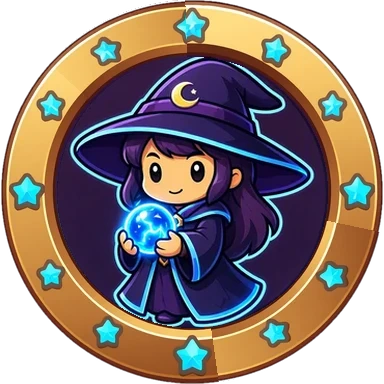
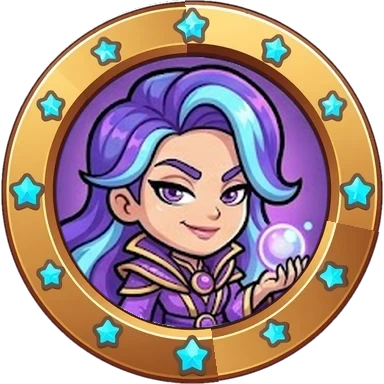
Oleadas con protagonista sorteado en ruleta, más vida a los monstruos y Aurora con su set nuevo

diff --git a/js/ui.js b/js/ui.js
@@ -2126,13 +2126,15 @@ function waveInfoHtml(b) {
     (!b.wave ? 'Coloca tus tropas' : left ? (left === 1 ? 'Queda 1' : 'Quedan ' + left) : '¡Superada!') + '</small></span>';
   var nx = b.next;
   if (!nx) return now + '<span class="wi-next"><b class="wi-last">👑 ¡Última oleada!</b></span>';
+  // hasta que el sorteo (showWaveDraw) no termina, la siguiente es una incógnita
+  if (!nx.shown) return now + '<span class="wi-next"><small>' + (b.wave ? 'Siguiente' : 'Llega') + '</small><i class="wi-chip wi-unknown">' + (nx.drawn ? '🎲' : '❔') + '</i></span>';
   var groups = [], by = {};
   nx.queue.forEach(function (q) {
     var k = (q.boss ? 'B' : '') + q.kind;
     if (!by[k]) { by[k] = { kind: q.kind, boss: !!q.boss, n: 0 }; groups.push(by[k]); }
     by[k].n++;
   });
-  groups.sort(function (p, q) { return (p.boss - q.boss) || (q.n - p.n); });
+  groups.sort(function (p, q) { return (q.boss - p.boss) || ((q.kind === nx.lead) - (p.kind === nx.lead)) || (q.n - p.n); });
   var chips = groups.slice(0, 5).map(function (g) {
     var name = g.boss ? BOSSES[g.kind].name : ENEMIES[g.kind].name;
     return '<i class="wi-chip' + (g.boss ? ' boss' : '') + '" title="' + esc(name) + '"><img src="' + enemyIcon(g.kind, g.boss) + '" alt="' + esc(name) + '">' + (g.boss ? '👑' : '×' + g.n) + '</i>';
@@ -2157,6 +2159,57 @@ function refreshUnitInfo() {
   box.innerHTML = icons('<img src="' + unitIcon(u.id, u.rank, 72) + '" alt=""><div><b>' + esc(d.name) + ' · Rango ' + u.rank + '</b><small>' + esc(d.role) + ' · ' + bits.join(' · ') + '</small><small class="hint">Toca otra igual para fusionar o una casilla vacía para moverla</small></div>');
   box.hidden = false;
 }
+/* ---------- sorteo de la siguiente oleada ----------
+   Una ruleta pequeña sobre tu tablero gira entre los monstruos posibles y
+   se para en el protagonista de la siguiente oleada (plan.lead). La partida
+   sigue mientras tanto; al pararse, la franja de arriba lo enseña. */
+var WD_W = 64; // ancho de cada casilla de la ruleta pequeña, con su hueco (.wd-card en style.css)
+function showWaveDraw(plan) {
+  var b = battle, old = $('waveDraw');
+  if (old) old.remove();
+  var items = leadPool(plan.wave), REPS = 7;
+  var win = items.indexOf(plan.lead);
+  var cards = '';
+  for (var k = 0; k < items.length * REPS; k++) {
+    var kind = items[k % items.length];
+    cards += '<span class="wd-card"><img src="' + enemyIcon(kind, false) + '" alt=""></span>';
+  }
+  var boss = plan.queue.filter(function (q) { return q.boss; })[0];
+  var el = document.createElement('div');
+  el.id = 'waveDraw'; el.className = 'wave-draw';
+  el.style.top = Math.round((layout.main ? layout.main.oy : 60) + 6) + 'px';
+  el.innerHTML = '<small>Oleada ' + plan.wave + '</small><div class="wd-track"><div class="wd-strip">' + cards + '</div><i class="wd-mark"></i></div><b class="wd-name">¿Quién vendrá?</b>';
+  $('arena').appendChild(el);
+  var track = el.querySelector('.wd-track'), strip = el.querySelector('.wd-strip');
+  var from = Math.floor(Math.random() * items.length), to = items.length * (REPS - 2) + win, at = -1;
+  function alive() { return battle === b && !b.ended && el.isConnected; }
+  function place(k) {
+    strip.style.transform = 'translateX(' + (track.clientWidth / 2 - (k * WD_W + WD_W / 2)) + 'px)';
+    var cur = Math.round(k);
+    if (cur !== at) { at = cur; tone(760 + (cur % 3) * 60, 0.025, 'square', 0.03); }
+  }
+  place(from);
+  var t0 = performance.now(), dur = DRAW_SPIN * 1000;
+  function step(now) {
+    if (!alive()) return;
+    var t = Math.min(1, (now - t0) / dur), e = 1 - Math.pow(1 - t, 4);
+    place(from + (to - from) * e);
+    if (t < 1) { requestAnimationFrame(step); return; }
+    strip.children[to].classList.add('win');
+    el.classList.add('done');
+    el.querySelector('.wd-name').innerHTML = esc(ENEMIES[plan.lead].name) + (boss ? '<em>👑 y ' + esc(BOSSES[boss.kind].name) + '</em>' : '') + (plan.event ? '<em>' + esc(plan.event.name) + '</em>' : '');
+    plan.shown = true;
+    updateHud(true);
+    sfx('power');
+    setTimeout(function () {
+      if (!el.isConnected) return;
+      el.classList.add('out');
+      setTimeout(function () { el.remove(); }, 300);
+    }, DRAW_HOLD * 1000);
+  }
+  requestAnimationFrame(step);
+}
+
 /* ---------- 1 contra 1: ruleta del modificador y del jefe final ----------
    Dos franjas cruzan el mapa de lado a lado: primero gira la del modificador
    y se para en el que ha tocado (battle.mod), luego la del jefe (battle.boss).

diff --git a/js/battle.js b/js/battle.js
@@ -296,7 +296,7 @@ var ROGUE_LATE = 1.11;
 var COOP_HP = 2.4;
 function hpScale() {
   var b = battle, w = Math.max(1, b.wave);
-  var s = 42 * Math.pow(1.17, w - 1);
+  var s = 52 * Math.pow(1.18, w - 1);
   if (b.stage) {
     // la dureza de la fase llega poco a poco: la primera oleada, al 55 %
     var ramp = b.maxWaves > 1 ? 0.55 + 0.45 * (w - 1) / (b.maxWaves - 1) : 1;
@@ -315,7 +315,22 @@ function isBossWave(w) {
   if (battle.mode === 'campaign') return w === battle.maxWaves;
   return w % (battle.mod && battle.mod.id === 'jefes' ? 3 : 5) === 0;
 }
-// Se decide una oleada antes de que llegue, para poder anunciar la siguiente.
+// monstruos que pueden protagonizar una oleada, según por cuál vas
+function leadPool(w) {
+  var p = ['blob', 'imp'];
+  if (w >= 3) p.push('brute', 'orco');
+  if (w >= 4) p.push('ghost', 'escudado');
+  if (w >= 5) p.push('escarcha');
+  if (w >= 6) p.push('rocoso');
+  return p;
+}
+// parte de la oleada que es del protagonista; el resto, monstruos variados
+var LEAD_SHARE = 0.7;
+// segundos que gira el sorteo de la siguiente oleada (showWaveDraw) y los que se queda a la vista
+var DRAW_SPIN = 1.9, DRAW_HOLD = 1.6;
+/* Se decide una oleada antes de que llegue, para poder anunciar la siguiente.
+   Cada oleada tiene un monstruo protagonista sorteado (nunca el mismo de la
+   anterior); cuántos salen depende de su vida, así la dureza no cambia. */
 function planWave(w) {
   var b = battle;
   var caos = b.mod && b.mod.id === 'caos';
@@ -331,15 +346,24 @@ function planWave(w) {
   if (w >= 5) mix.push('escarcha', 'orco');
   if (w >= 6) mix.push('rocoso');
   if (w >= 8) mix.push('brute', 'ghost', 'rocoso', 'escarcha');
+  var pool = leadPool(w), prev = b.next && b.next.wave === w - 1 ? b.next.lead : null;
+  if (prev && pool.length > 1) pool = pool.filter(function (k) { return k !== prev; });
+  var lead = bpick(pool);
+  var avgHp = mix.reduce(function (s, k) { return s + ENEMIES[k].hp; }, 0) / mix.length;
+  var nFill = Math.round(count * (1 - LEAD_SHARE));
+  var nLead = Math.max(3, Math.min(Math.round(count * 1.6), Math.round(count * LEAD_SHARE * avgHp / ENEMIES[lead].hp)));
   var queue = [];
-  for (var i = 0; i < count; i++) queue.push({ kind: bpick(mix) });
+  for (var i = 0; i < nFill; i++) queue.push({ kind: bpick(mix) });
+  for (i = 0; i < nLead; i++) queue.push({ kind: lead });
+  for (i = queue.length - 1; i > 0; i--) { var j = Math.floor(brand() * (i + 1)), sw = queue[i]; queue[i] = queue[j]; queue[j] = sw; }
+  count = queue.length;
   if (isBossWave(w)) {
     var rot = BOSS_ORDER[(w / 5 - 1) % BOSS_ORDER.length];
     // roguelike: rotan los jefes y el de la ruleta llega en la última oleada
     var boss = b.stage ? b.stage.boss : b.mode === 'rogue' ? (w === b.maxWaves ? b.boss : rot) : b.boss || rot;
     queue.push({ kind: boss, boss: true, final: b.mode === 'rogue' && w === b.maxWaves });
   }
-  return { wave: w, event: event, queue: queue, count: count };
+  return { wave: w, event: event, queue: queue, count: count, lead: lead, drawn: false };
 }
 function startWave() {
   var b = battle;
@@ -407,6 +431,9 @@ function updateBattle(dt) {
   if (b.mode === 'rogue' && b.time >= b.nextPick) { b.nextPick += ROGUE_PICK_EVERY; offerRogue(); if (b.picking) return; }
   if (b.moveCd > 0) b.moveCd = Math.max(0, b.moveCd - dt / (b.speed || 1));
   if (b.tutorial) updateCoach(dt);
+  // sorteo de la siguiente oleada: al salir el último monstruo de la actual
+  // (o antes de la primera), sin parar la partida
+  if (b.next && !b.next.drawn && (!b.wave || !b.queue.length)) { b.next.drawn = true; showWaveDraw(b.next); }
   if (b.gap > 0) {
     // en el tutorial, la primera oleada espera a que invoques dos tropas
     if (!(b.tutorial && b.wave === 0 && b.player.summons < 2)) b.gap -= dt;
@@ -1106,7 +1133,8 @@ function drawBoard(b, L, now, isMain) {
     if (f.type === 'bolt') {
       // rayo ilustrado estirado entre los dos puntos (se voltea al azar para
       // que chisporrotee) y un trazo quebrado encima
-      var cad = art('fx/rayo-cadena'), bim = cad || art('fx/rayo-bola');
+      // (el propio de la tropa, si tiene: boltPic)
+      var cad = (f.pic && art(f.pic)) || art('fx/rayo-cadena'), bim = cad || art('fx/rayo-bola');
       ctx.globalAlpha = f.life / f.max;
       if (bim) {
         var bl = Math.hypot(f.x2 - f.x1, f.y2 - f.y1), bh = cad ? Math.min(0.55, bl * bim.naturalHeight / bim.naturalWidth * 1.4) : 0.42;

diff --git a/style.css b/style.css
@@ -1742,6 +1742,30 @@ x-ico.off { filter: grayscale(1) brightness(0.45); opacity: 0.75; }
 .rl-desc { min-height: 1.3em; margin: 6px 16px 0; text-align: center; font-size: 0.82rem; color: #fff; text-shadow: 0 1px 0 var(--ink); }
 .rl-skip { text-align: center; color: var(--muted); font-size: 0.8rem; }
 
+/* sorteo de la siguiente oleada (showWaveDraw): no tapa los toques */
+.wave-draw {
+  position: absolute; left: 50%; transform: translateX(-50%); z-index: 4; width: 212px; pointer-events: none;
+  display: flex; flex-direction: column; align-items: center; gap: 3px; padding: 5px 0 6px;
+  background: rgba(12,16,48,0.86); border: 2px solid var(--ui-gold); border-radius: 14px; box-shadow: 0 0 0 2px var(--ink), 0 4px 0 rgba(0,0,0,0.4);
+  animation: rlIn 0.25s ease-out;
+}
+.wave-draw.out { opacity: 0; transition: opacity 0.3s; }
+.wave-draw > small { font-size: 0.68rem; color: var(--gold); text-shadow: 0 1px 0 var(--ink); }
+.wd-track { position: relative; width: 100%; height: 62px; overflow: hidden; background: linear-gradient(180deg, #2a1a0c, #4a2e14 50%, #2a1a0c); }
+.wd-track::before, .wd-track::after { content: ''; position: absolute; top: 0; bottom: 0; width: 22%; z-index: 2; }
+.wd-track::before { left: 0; background: linear-gradient(90deg, rgba(20,12,4,0.95), transparent); }
+.wd-track::after { right: 0; background: linear-gradient(-90deg, rgba(20,12,4,0.95), transparent); }
+.wd-strip { display: flex; height: 100%; align-items: center; will-change: transform; }
+/* WD_W de js/ui.js = ancho + márgenes (56 + 4 + 4) */
+.wd-card { flex: none; width: 56px; height: 54px; margin: 0 4px; border-radius: 10px; display: grid; place-items: center; background: linear-gradient(180deg, #2f4192, #1a245e); border: 2px solid var(--ink); }
+.wd-card img { width: 44px; height: 44px; object-fit: contain; }
+.wd-card.win { border-color: var(--gold); box-shadow: 0 0 12px 3px rgba(255,209,102,0.85); animation: rlWin 0.45s ease-out forwards; }
+.wd-mark { position: absolute; left: 50%; top: 0; bottom: 0; width: 64px; transform: translateX(-50%); z-index: 3; border-left: 2px solid var(--gold); border-right: 2px solid var(--gold); }
+.wd-name { font-family: 'Lilita One'; font-weight: 400; font-size: 0.95rem; color: #fff; text-shadow: 0 2px 0 var(--ink); text-align: center; line-height: 1.15; }
+.wd-name em { display: block; font-style: normal; font-family: system-ui, sans-serif; font-size: 0.7rem; color: var(--gold); }
+.wave-draw:not(.done) .wd-name { color: var(--muted); }
+.wi-unknown { width: 30px; height: 30px; justify-content: center; font-size: 1.1rem; background: rgba(255,255,255,0.08); border-radius: 8px; }
+
 .skill-pick { position: absolute; inset: 0; z-index: 8; display: grid; place-items: center; padding: 16px; background: rgba(8,10,30,0.7); animation: rlIn 0.25s ease-out; }
 .skill-pick.out { opacity: 0; transition: opacity 0.35s; }
 .sp-card { width: 100%; max-width: 420px; background: var(--ui-panel-bg); border: 3px solid var(--cc, var(--gold)); border-radius: 18px; padding: 12px; box-shadow: 0 0 0 3px var(--ink), 0 0 30px rgba(0,0,0,0.5); }

diff --git a/js/art.js b/js/art.js
@@ -58,6 +58,8 @@ var ASSET_VER = { 'fx/fusion': 2, 'fx/fusion-eco': 2, 'fx/invocar': 2, 'fx/estad
 });
 ['cronos', 'eco', 'garra', 'halcon', 'kaia', 'lyra', 'oria', 'rocco', 'seren', 'sombra', 'titan', 'fenix'].forEach(function (id) { ASSET_VER['units/' + id] = 3; });
 ASSET_VER['units/garra'] = 4;
+// Aurora, set 2 (assets/personajes/aurora-set-2.jpg)
+ASSET_VER['units/aurora'] = 3; ASSET_VER['units/board/aurora-idle'] = 7; ASSET_VER['units/board/aurora-attack'] = 7;
 // efectos de los comandantes redibujados (assets/comandantes/*-set.jpg)
 ['ventisca', 'marea', 'meteoro', 'crater', 'nyx-maldicion', 'nyx-chispas', 'sol-escudo', 'morgana-ensamblaje', 'torvald-forja', 'torvald-carga'].forEach(function (k) { ASSET_VER['fx/' + k] = 3; });
 ['crater', 'meteoro', 'marea'].forEach(function (k) { ASSET_VER['fx/' + k] = 4; }); // Brann y Merlo, set 2
@@ -215,7 +217,7 @@ var FX_OF = { fire: 'fuego', ice: 'hielo', poison: 'veneno', bomb: 'canon', arro
     IMG['fx/' + el + '-' + part] = im;
   });
 });
-['ventisca', 'marea', 'meteoro', 'crater', 'nyx-maldicion', 'nyx-chispas', 'sol-escudo', 'morgana-ensamblaje', 'torvald-forja', 'torvald-carga', 'boreas-ventisca', 'midas-critico', 'eco-resuena', 'fusion-eco', 'oria-interes', 'muerte-puf', 'muerte-estallido', 'muerte-veneno', 'muerte-fuego', 'muerte-humo', 'garra-espiritu', 'invocar', 'invocar-aro', 'acelerar', 'rayo-cadena', 'congelado-1', 'congelado-2', 'ganancia-mana', 'pyra-estallido', 'icono-armadura', 'icono-barrera', 'fusion', 'fusion-doblon', 'mover', 'ralentizado-1', 'ralentizado-2', 'ralentizado-3', 'ralentizado-4', 'ralentizado-5'].concat(Object.keys(ELEMENTS).map(function (el) { return 'conector-' + el; })).forEach(function (k) {
+['ventisca', 'marea', 'meteoro', 'crater', 'nyx-maldicion', 'nyx-chispas', 'sol-escudo', 'morgana-ensamblaje', 'torvald-forja', 'torvald-carga', 'boreas-ventisca', 'midas-critico', 'eco-resuena', 'fusion-eco', 'oria-interes', 'muerte-puf', 'muerte-estallido', 'muerte-veneno', 'muerte-fuego', 'muerte-humo', 'garra-espiritu', 'invocar', 'invocar-aro', 'acelerar', 'rayo-cadena', 'congelado-1', 'congelado-2', 'ganancia-mana', 'pyra-estallido', 'icono-armadura', 'icono-barrera', 'fusion', 'fusion-doblon', 'mover', 'ralentizado-1', 'ralentizado-2', 'ralentizado-3', 'ralentizado-4', 'ralentizado-5', 'aurora-rayo', 'aurora-aturdido'].concat(Object.keys(ELEMENTS).map(function (el) { return 'conector-' + el; })).forEach(function (k) {
   var im = new Image();
   im.onload = function () { im.ready = true; };
   im.src = 'assets/fx/' + k + '.webp' + assetV('fx/' + k);

diff --git a/sw.js b/sw.js
@@ -6,7 +6,7 @@
 // archivo por su cuenta: si uno falla, los demás se quedan. El arte (EXTRA)
 // se baja después, de pocos en pocos y sin bloquear, y lo que se vaya
 // usando se guarda igualmente al pedirlo.
-var CACHE = 'reino-de-torres-v103';
+var CACHE = 'reino-de-torres-v104';
 // tropas con el dibujo nuevo (assets/personajes)
 var NEW_ART = ['cronos', 'eco', 'garra', 'halcon', 'kaia', 'lyra', 'oria', 'rocco', 'seren', 'sombra', 'titan', 'fenix'];
 var CORE = ['./', 'index.html', 'style.css', 'favicon.svg', 'manifest.json', 'js/data.js', 'js/version.js', 'js/art.js', 'js/meta.js', 'js/board.js', 'js/battle.js', 'js/music.js', 'js/ui.js',
@@ -19,6 +19,8 @@ var EXTRA = ['assets/icons/gota.webp?v=2', 'assets/ui/boton.webp', 'assets/ui/bo
   .concat(['marea', 'frida', 'pyra', 'valka'].reduce(function (a, id) { return a.concat(['assets/units/' + id + '.webp?v=2', 'assets/units/board/' + id + '-idle.webp?v=3', 'assets/units/board/' + id + '-attack.webp']); }, []))
   .concat(['marea', 'frida', 'pyra', 'valka', 'fenix'].map(function (id) { return 'assets/fx/' + id + '-tiro.webp'; }))
   .concat(['invocar-aro', 'acelerar', 'rayo-cadena', 'congelado-1', 'congelado-2', 'ganancia-mana', 'pyra-estallido', 'icono-armadura', 'icono-barrera', 'estado-enredado', 'estado-ascuas'].map(function (k) { return 'assets/fx/' + k + '.webp'; }));
+// 1.32.0: Aurora, set 2
+EXTRA = EXTRA.concat(['assets/units/aurora.webp?v=3', 'assets/units/board/aurora-idle.webp?v=7', 'assets/units/board/aurora-attack.webp?v=7', 'assets/fx/aurora-rayo.webp', 'assets/fx/aurora-aturdido.webp']);
 function cacheEach(c, list) { return Promise.all(list.map(function (u) { return c.add(u).catch(function () {}); })); }
 // el arte, de 6 en 6 (lo que ya esté guardado no se vuelve a bajar)
 function warmExtra() {

diff --git a/index.html b/index.html
@@ -15,7 +15,7 @@
 <link rel="preconnect" href="https://fonts.googleapis.com">
 <link rel="preconnect" href="https://fonts.gstatic.com" crossorigin>
 <link href="https://fonts.googleapis.com/css2?family=Fredoka:wght@500;600;700&family=Lilita+One&family=Nunito:wght@700;800;900&family=Titan+One&display=swap" rel="stylesheet">
-<link rel="stylesheet" href="style.css?v=75">
+<link rel="stylesheet" href="style.css?v=76">
 </head>
 <body>
   <div id="menu" class="menu"></div>
@@ -57,13 +57,13 @@
   <div id="overlay" class="overlay" hidden></div>
   <div id="toast" class="toast"></div>
 
-  <script src="js/data.js?v=61"></script>
-  <script src="js/version.js?v=65"></script>
-  <script src="js/art.js?v=55"></script>
+  <script src="js/data.js?v=62"></script>
+  <script src="js/version.js?v=66"></script>
+  <script src="js/art.js?v=56"></script>
   <script src="js/meta.js?v=36"></script>
-  <script src="js/board.js?v=60"></script>
-  <script src="js/battle.js?v=71"></script>
+  <script src="js/board.js?v=61"></script>
+  <script src="js/battle.js?v=72"></script>
   <script src="js/music.js?v=1"></script>
-  <script src="js/ui.js?v=82"></script>
+  <script src="js/ui.js?v=83"></script>
 </body>
 </html>

diff --git a/js/data.js b/js/data.js
@@ -38,6 +38,7 @@ Object.keys(RARITY).forEach(function (k) { RARITY[k].color = GAME_PALETTE.rariti
    pierce (ignora la armadura), bounty (maná extra por cada baja suya),
    wild (comodín de fusión), interest (intereses del maná), wolves (lobos por el camino),
    stunPic / critPic (dibujo que salta sobre el enemigo al aturdirlo o con un crítico),
+   boltPic (rayo propio que se estira entre los enemigos de la cadena),
    target: 'first' | 'strong'
 */
 var UNITS = {
@@ -143,7 +144,7 @@ var UNITS = {
   aurora: {
     element: 'arcano', name: 'Aurora', title: 'Archimaga', role: 'Tormenta', rarity: 'legendaria', chestOnly: true,
     color: '#6a4bd8', color2: '#9ff3ff', skin: '#f3dcc8',
-    dmg: 22, rate: 0.9, proj: 'bolt', chain: 4, stun: { chance: 0.15, dur: 1 }, target: 'first',
+    dmg: 22, rate: 0.9, proj: 'bolt', chain: 4, stun: { chance: 0.15, dur: 1 }, stunPic: 'fx/aurora-aturdido', boltPic: 'fx/aurora-rayo', target: 'first',
     desc: 'Rayos que saltan entre muchos enemigos y a veces los dejan aturdidos.'
   },
   titan: {

diff --git a/js/version.js b/js/version.js
@@ -7,8 +7,18 @@
    La ventana sale sola al entrar con una versión nueva (meta.lastSeenVersion)
    y también desde Opciones.
    ========================================================= */
-var APP_VERSION = '1.31.7';
+var APP_VERSION = '1.32.0';
 var APP_PATCH_NOTES = [
+  {
+    version: '1.32.0',
+    summary: 'Oleadas sorteadas y Aurora nueva',
+    items: [
+      'Cada oleada tiene un monstruo protagonista elegido al azar, y nunca repite el de la anterior.',
+      'Antes de cada oleada, una ruleta sobre tu tablero sortea qué monstruo viene. La partida no se para y arriba ves quién te toca.',
+      'Los monstruos tienen más vida, sobre todo en las oleadas altas: las partidas largas se acaban antes.',
+      'Aurora estrena dibujo: retrato, poses, un rayo propio que salta entre los enemigos y su propio remolino al aturdir.'
+    ]
+  },
   {
     version: '1.31.7',
     summary: 'Daño de los monstruos a la vista',

diff --git a/js/board.js b/js/board.js
@@ -682,7 +682,7 @@ Board.prototype.fire = function (i, u) {
     var jumps = d.chain + Math.floor((u.rank - 1) / 2);
     this.fx.push({ type: 'pic', key: 'fx/rayo-destello', x: from.x, y: from.y - 0.12, size: 0.5, rot: 0, grow: 0.5, life: 0.2, max: 0.2 });
     for (var j = 0; j < jumps && cur; j++) {
-      this.fx.push({ type: 'bolt', x1: prev.x, y1: prev.y, x2: cur.x, y2: cur.y, life: 0.18, max: 0.18, color: d.color2 });
+      this.fx.push({ type: 'bolt', x1: prev.x, y1: prev.y, x2: cur.x, y2: cur.y, life: 0.18, max: 0.18, color: d.color2, pic: d.boltPic });
       this.fx.push({ type: 'pic', key: 'fx/rayo-impacto', x: cur.x, y: cur.y, size: 0.55, rot: 0, grow: 0.5, life: 0.3, max: 0.3 });
       hitSet[cur.id] = true;
       this.applyHit(cur, dmg, d, u);
